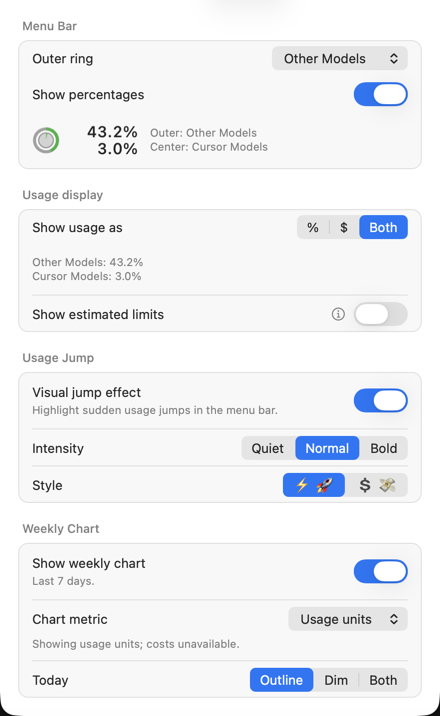
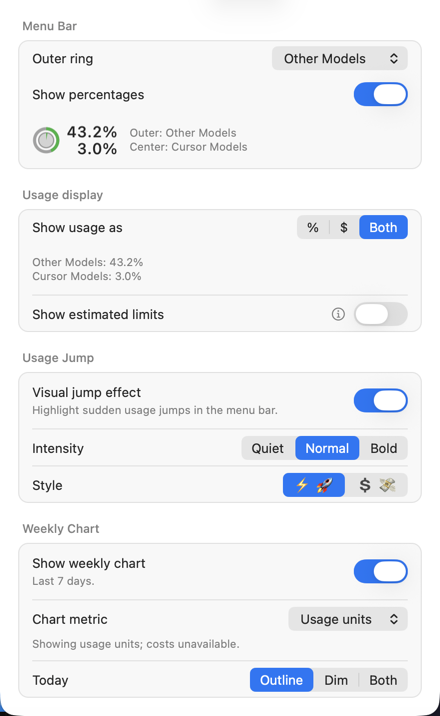
[#134] fix: tighten stacked menu-bar percentage spacing

Changed region(s): [[0.1182, 0.1536, 0.6205, 0.2151], [0.0, 0.9832, 0.0295, 1.0]]

diff --git a/Tests/CursorMeterTests/SplitMenuBarRendererTests.swift b/Tests/CursorMeterTests/SplitMenuBarRendererTests.swift
@@ -5,9 +5,9 @@ import XCTest
 
 @MainActor
 final class SplitMenuBarRendererTests: XCTestCase {
-    func testOrdinaryAndBoundaryValuesReserveStableGeometry() {
+    func testOrdinaryValuesReserveCompactStableGeometry() {
         let baseline = SplitMenuBarRenderer.layout(readout: .init(upper: "0.0%", lower: "—"))
-        for text in ["0.0%", "9.9%", "99.9%", "100.0%", "<0.1%", "<100.0%", ">100.0%", "135.3%", "—"] {
+        for text in ["0.0%", "9.9%", "99.9%", "<0.1%", "—"] {
             let layout = SplitMenuBarRenderer.layout(readout: .init(upper: text, lower: text))
             XCTAssertEqual(layout.size, baseline.size, text)
             XCTAssertEqual(layout.size.height, 22)
@@ -18,6 +18,24 @@ final class SplitMenuBarRendererTests: XCTestCase {
             XCTAssertEqual(layout.upperRowRect.minY, layout.lowerRowRect.maxY)
             XCTAssertTrue(layout.upperRowRect.contains(layout.upperInkBounds), text)
             XCTAssertTrue(layout.lowerRowRect.contains(layout.lowerInkBounds), text)
+        }
+        let ordinary = SplitMenuBarRenderer.layout(readout: .init(upper: "54.9%", lower: "3.7%"))
+        XCTAssertLessThanOrEqual(ordinary.upperInkBounds.minX - ordinary.iconRect.maxX, 6)
+    }
+
+    func testLongerBoundaryValuesExpandWithoutMovingBaselines() {
+        let ordinary = SplitMenuBarRenderer.layout(readout: .init(upper: "54.9%", lower: "3.7%"))
+        for text in ["100.0%", "<100.0%", ">100.0%", "135.3%"] {
+            for readout in [SplitMenuBarReadout(upper: text, lower: "3.7%"),
+                            .init(upper: "54.9%", lower: text)] {
+                let expanded = SplitMenuBarRenderer.layout(readout: readout)
+                XCTAssertGreaterThan(expanded.size.width, ordinary.size.width, text)
+                XCTAssertEqual(expanded.upperTextOrigin.y, ordinary.upperTextOrigin.y)
+                XCTAssertEqual(expanded.lowerTextOrigin.y, ordinary.lowerTextOrigin.y)
+                XCTAssertEqual(expanded.iconRect, ordinary.iconRect)
+                XCTAssertTrue(expanded.upperRowRect.contains(expanded.upperInkBounds), text)
+                XCTAssertTrue(expanded.lowerRowRect.contains(expanded.lowerInkBounds), text)
+            }
         }
     }
 

diff --git a/Sources/CursorMeter/SplitMenuBarRenderer.swift b/Sources/CursorMeter/SplitMenuBarRenderer.swift
@@ -15,22 +15,22 @@ enum SplitMenuBarRenderer {
         let lowerInkBounds: NSRect
     }
 
-    private static let reservedStrings = ["0.0%", "99.9%", "100.0%", "<0.1%", "<100.0%", ">100.0%", "—"]
+    private static let baselineStrings = ["0.0%", "99.9%", "100.0%", "<0.1%", "<100.0%", ">100.0%", "—"]
     // NSImage drawing handlers may run off-main; keep non-Sendable font state local.
     private static var font: NSFont { .monospacedDigitSystemFont(ofSize: 10, weight: .medium) }
 
     static func layout(readout: SplitMenuBarReadout) -> Layout {
-        let reserved = reservedStrings.map { line($0) }
+        let baselineLines = baselineStrings.map { line($0) }
         let upper = line(readout.upper)
         let lower = line(readout.lower)
         let upperWidth = CGFloat(CTLineGetTypographicBounds(upper, nil, nil, nil))
         let lowerWidth = CGFloat(CTLineGetTypographicBounds(lower, nil, nil, nil))
-        let reservedWidth = reserved.map { CGFloat(CTLineGetTypographicBounds($0, nil, nil, nil)) }.max() ?? 0
+        let reservedWidth = CGFloat(CTLineGetTypographicBounds(line("99.9%"), nil, nil, nil))
         let textWidth = ceil(max(reservedWidth, upperWidth, lowerWidth))
         let upperRow = NSRect(x: 22, y: 11, width: textWidth, height: 11)
         let lowerRow = NSRect(x: 22, y: 0, width: textWidth, height: 11)
         // AppKit's 13 pt line height exceeds each row; center glyph ink on a shared baseline instead.
-        let referenceInk = reserved.map { CTLineGetBoundsWithOptions($0, .useGlyphPathBounds) }
+        let referenceInk = baselineLines.map { CTLineGetBoundsWithOptions($0, .useGlyphPathBounds) }
             .reduce(CGRect.null) { $0.union($1) }
         let upperOrigin = NSPoint(x: upperRow.maxX - upperWidth, y: upperRow.midY - referenceInk.midY)
         let lowerOrigin = NSPoint(x: lowerRow.maxX - lowerWidth, y: lowerRow.midY - referenceInk.midY)

diff --git a/docs/superpowers/specs/2026-10-04-menu-bar-spacing-correction.md b/docs/superpowers/specs/2026-10-04-menu-bar-spacing-correction.md
@@ -1,0 +1,21 @@
+# Compact spacing beside menu-bar percentages
+
+Issue: #134. Owner approved the proposed correction on October 4 after inspecting #133 in the installed app.
+
+## Correction
+
+Reserve the native typographic width of `99.9%`, rounded up. Expand the numeric column to the larger actual row width when needed. Returning to ordinary values restores compact width. Ordinary readings remain stable; crossing into a longer representation can resize the item.
+
+Keep the 18 pt icon, 4 pt nominal gap, two 11 pt rows, trailing alignment, complete formatter strings, and current visibility/jump/preference rules. Preserve the full existing glyph-reference set for vertical baselines so width changes cannot move either row vertically. Settings uses the same renderer and retains its 28 pt ring.
+
+This supersedes only the boundary-width reservation decision in section 4 and geometry criterion 6 of the [original specification](2026-10-03-menu-bar-dual-percent-design.md). Its other requirements remain unchanged. On the development Mac, ordinary image width changes 68→55 pt and the visible gap for a two-digit percentage changes about 18→5 pt. These are measured results, not hardcoded font widths.
+
+## Verification
+
+- Reproduce the excessive ordinary gap, then require a compact ordinary column and stable ordinary/missing/near-zero widths.
+- Require longer boundary/large strings to expand, fit, and keep the same vertical baselines; retain existing trailing-alignment, raster, background-draw, jump, and integration tests.
+- Run the safe full Swift suite; CI runs the two existing Keychain-writing tests that are excluded locally.
+- Reuse the isolated native fixture for normal/boundary/jump/Settings captures. Refresh the affected Display screenshot without PII.
+- Independent focused code review before commit, followed by exact-head CI.
+
+No data, formatting, auth, notification, setting, dependency, or circle-design changes.

diff --git a/docs/superpowers/specs/2026-10-03-menu-bar-dual-percent-design.md b/docs/superpowers/specs/2026-10-03-menu-bar-dual-percent-design.md
@@ -1,5 +1,7 @@
 # Optional stacked menu-bar percentages
 
+Follow-up: [#134 compact-spacing correction](2026-10-04-menu-bar-spacing-correction.md) supersedes the boundary-width reservation below; the rest of this contract is unchanged.
+
 Status: Reviewed v1.0, implementation authorized by the owner under issue #132.
 All three models approved draft v0.1 without blocking findings; this revision
 incorporates the coordinator's adjudicated clarifications.
